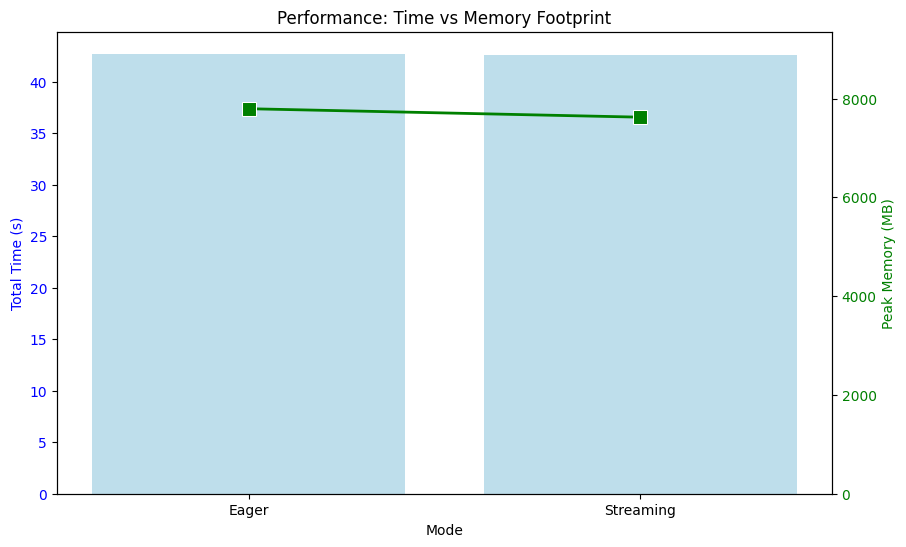
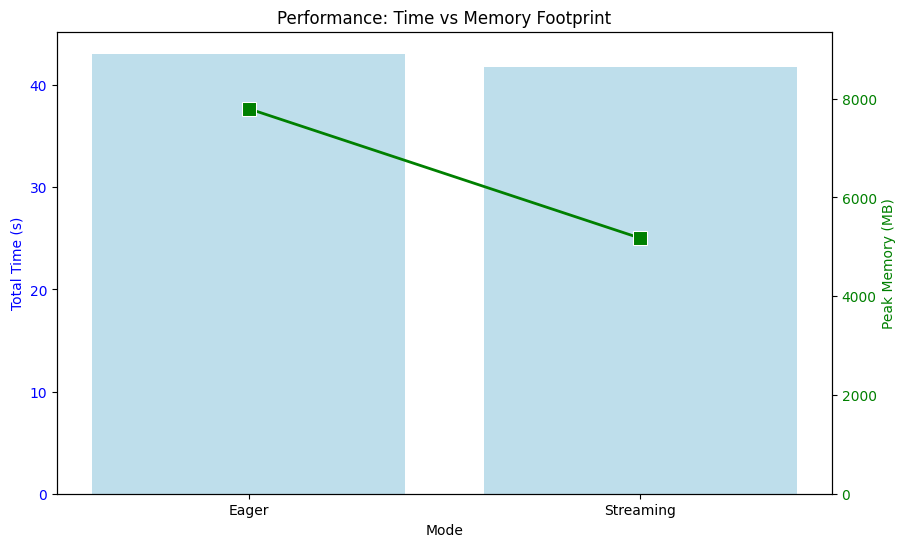
Implement utility scripts (Parquet, FASTA, Annotation) and fix streaming benchmark

diff --git a/scripts/annotate_variants.py b/scripts/annotate_variants.py
@@ -1,0 +1,75 @@
+import polars as pl
+import polars_bio as pb
+import numpy as np
+import os
+
+def create_mock_gnomad(vcf_path, out_path):
+    print("Creating mock gnomAD dataset from ClinVar sample...")
+    # Read ClinVar to get real loci
+    vcf = pb.read_vcf(vcf_path).select(["chrom", "start", "ref", "alt"]).unique()
+    
+    # Sample 50,000 variants to simulate coverage
+    mock_db = vcf.sample(n=50000, seed=42)
+    
+    # Add random Allele Frequency (AF)
+    # Using numpy to generate random float array
+    af_values = np.random.beta(a=0.5, b=5, size=mock_db.height)
+    
+    mock_db = mock_db.with_columns(
+        pl.Series("gnomad_af", af_values)
+    )
+    
+    # Save as Parquet
+    mock_db.write_parquet(out_path)
+    print(f"Mock gnomAD saved to {out_path} ({mock_db.height} variants)")
+
+def annotate_variants(vcf_path, db_path):
+    print("\nAnnotating ClinVar with gnomAD (Mock)...")
+    
+    # Lazy read both
+    vcf = pb.scan_vcf(vcf_path)
+    gnomad = pl.scan_parquet(db_path)
+    
+    # VCF uses 'start' for position.
+    # Join Keys: chrom, start, ref, alt
+    # Note: Ensure types match (chrom usually str)
+    
+    # Standard Polars Join
+    annotated = vcf.join(
+        gnomad,
+        on=["chrom", "start", "ref", "alt"],
+        how="left"
+    )
+    
+    # Filter for annotated variants (where gnomad_af is not null)
+    # Collect a sample
+    result = annotated.filter(pl.col("gnomad_af").is_not_null()) \
+                      .select(["chrom", "start", "ref", "alt", "gnomad_af"])
+                      .head(10)
+                      .collect()
+    
+    print("Sample Annotated Variants:")
+    print(result)
+    
+    # Stats
+    total = vcf.select(pl.len()).collect().item()
+    annotated_count = annotated.filter(pl.col("gnomad_af").is_not_null()).select(pl.len()).collect().item()
+    print(f"\nTotal Variants: {total}")
+    print(f"Annotated Variants: {annotated_count} ({annotated_count/total:.1%})")
+
+def main():
+    vcf_path = "polars-bio-agent-skill/data/clinvar.vcf.gz"
+    db_path = "polars-bio-agent-skill/data/gnomad_mock.parquet"
+    
+    if not os.path.exists(vcf_path):
+        print("VCF not found.")
+        return
+
+    # Create mock DB if not exists
+    if not os.path.exists(db_path):
+        create_mock_gnomad(vcf_path, db_path)
+        
+    annotate_variants(vcf_path, db_path)
+
+if __name__ == "__main__":
+    main()

diff --git a/scripts/fasta_analysis.py b/scripts/fasta_analysis.py
@@ -1,0 +1,50 @@
+import polars as pl
+import polars_bio as pb
+import time
+import os
+
+def analyze_fasta(fasta_path):
+    print(f"Analyzing FASTA: {fasta_path}")
+    t0 = time.time()
+    
+    # Lazy read
+    lf = pb.scan_fasta(fasta_path)
+    
+    # Calculate GC Content
+    # Schema usually: id, description, seq
+    # We calculate (count(G) + count(C)) / len(seq)
+    
+    # Note: Sequences in FASTA can be UPPER or lower case.
+    lf = lf.with_columns(
+        pl.col("seq").str.to_uppercase().alias("seq_upper")
+    )
+    
+    lf = lf.with_columns(
+        (pl.col("seq_upper").str.count_matches("G") + pl.col("seq_upper").str.count_matches("C")).alias("gc_count"),
+        pl.col("seq_upper").str.len_chars().alias("seq_len")
+    )
+    
+    lf = lf.with_columns(
+        (pl.col("gc_count") / pl.col("seq_len")).alias("gc_content")
+    )
+    
+    # Aggregation: Average GC content across all sequences (e.g. contigs/chromosomes)
+    # For chr22.fa.gz, there might be one main sequence and random contigs.
+    
+    result = lf.select(["id", "seq_len", "gc_content"]).collect()
+    
+    dt = time.time() - t0
+    print(f"Analysis complete in {dt:.2f}s")
+    print(result)
+
+def main():
+    fasta_path = "polars-bio-agent-skill/data/chr22.fa.gz"
+    
+    if not os.path.exists(fasta_path):
+        print(f"Error: {fasta_path} not found.")
+        return
+
+    analyze_fasta(fasta_path)
+
+if __name__ == "__main__":
+    main()

diff --git a/scripts/advanced_demo.py b/scripts/advanced_demo.py
@@ -63,22 +63,26 @@ def run_pipeline_task(mode, vcf_path, bed_path, result_queue):
         
         # --- 1. Load ---
         t0 = time.time()
-        vcf = pb.read_vcf(vcf_path)
         
-        # Cytobands
-        cytoband = pl.read_csv(
-            bed_path, has_header=False, separator="\t",
-            new_columns=["chrom", "start", "end", "band", "stain"]
-        )
-
-        if mode == 'Eager':
+        if mode == 'Streaming':
+            # Use scan_vcf for lazy loading
+            vcf = pb.scan_vcf(vcf_path)
+            # Cytoband is small, but let's be consistent
+            cytoband = pl.scan_csv(
+                bed_path, has_header=False, separator="\t",
+                new_columns=["chrom", "start", "end", "band", "stain"]
+            )
+        else:
+            # Eager Mode
+            vcf = pb.read_vcf(vcf_path)
+            cytoband = pl.read_csv(
+                bed_path, has_header=False, separator="\t",
+                new_columns=["chrom", "start", "end", "band", "stain"]
+            )
+            
+            # Ensure Materialization for Eager Benchmarking
             if isinstance(vcf, pl.LazyFrame):
                 vcf = vcf.collect()
-        else:
-            if isinstance(vcf, pl.DataFrame):
-                vcf = vcf.lazy()
-            if isinstance(cytoband, pl.DataFrame):
-                cytoband = cytoband.lazy()
 
         metrics["Load_Time"] = time.time() - t0
         

diff --git a/scripts/convert_to_parquet.py b/scripts/convert_to_parquet.py
@@ -1,0 +1,39 @@
+import polars as pl
+import polars_bio as pb
+import time
+import os
+
+def convert_vcf_to_parquet(vcf_path, parquet_path):
+    """
+    Converts a VCF file to Parquet format using streaming.
+    """
+    print(f"Converting {vcf_path} to {parquet_path}...")
+    t0 = time.time()
+    
+    # scan_vcf is lazy and memory efficient
+    lf = pb.scan_vcf(vcf_path)
+    
+    # sink_parquet processes in chunks/streams
+    lf.sink_parquet(parquet_path)
+    
+    dt = time.time() - t0
+    print(f"Conversion complete in {dt:.2f}s")
+    
+    # Verify result
+    df = pl.read_parquet(parquet_path)
+    print(f"Parquet Shape: {df.height} rows, {df.width} columns")
+    print(f"Parquet Size: {os.path.getsize(parquet_path) / (1024*1024):.2f} MB")
+
+def main():
+    # Use existing sample data
+    vcf_path = "polars-bio-agent-skill/data/clinvar.vcf.gz"
+    parquet_path = "polars-bio-agent-skill/data/clinvar.parquet"
+    
+    if not os.path.exists(vcf_path):
+        print(f"Error: {vcf_path} not found. Please run advanced_demo.py first or download data.")
+        return
+
+    convert_vcf_to_parquet(vcf_path, parquet_path)
+
+if __name__ == "__main__":
+    main()

diff --git a/README.md b/README.md
@@ -4,67 +4,60 @@
 
 ## Overview
 
-This repository contains a specialized agent skill for processing large-scale genomic data using **polars-bio** and **Polars**. It demonstrates efficient handling of VCF files (Variant Call Format) and performing genomic interval joins (overlaps) with annotations like cytobands.
+This repository contains a specialized agent skill for processing large-scale genomic data using **polars-bio** and **Polars**. It demonstrates efficient handling of VCF files, genomic interval joins, and performance benchmarking.
 
-## 🎯 Goal
+## 📂 Key Scripts
 
-The primary goal of this skill is to provide a robust, high-performance toolkit for:
-*   Loading and parsing VCF files (~100MB+).
-*   Cleaning and feature engineering genomic data.
-*   Performing interval overlap joins with other genomic regions (BED files).
-*   Benchmarking execution modes (Eager vs. Streaming) to optimize performance.
+### 1. Analysis & Benchmarking
+*   **`scripts/advanced_demo.py`**: 
+    *   **Function**: Runs a full analysis pipeline (Load -> Clean -> Join -> Report).
+    *   **Features**: Compares **Eager** (in-memory) vs **Streaming** (lazy/out-of-core) execution. Generates `ANALYSIS_REPORT.md` and `clinvar_analysis.html`.
+    *   **Usage**: `python3 scripts/advanced_demo.py`
 
-## 📂 Key Files
+### 2. Utilities (New Implementations)
+*   **`scripts/convert_to_parquet.py`**:
+    *   **Function**: efficiently converts VCF to Parquet format using streaming. Parquet is much faster for subsequent queries.
+    *   **Usage**: `python3 scripts/convert_to_parquet.py`
+    
+*   **`scripts/fasta_analysis.py`**:
+    *   **Function**: Analyzes FASTA files (e.g., Reference Genome) to calculate metrics like GC Content. Demonstrates `scan_fasta`.
+    *   **Usage**: `python3 scripts/fasta_analysis.py`
 
-*   **[SKILL.md](SKILL.md)**: Detailed definition of the skill's capabilities and quick start guide.
-*   **[ANALYSIS_REPORT.md](ANALYSIS_REPORT.md)**: A generated report containing analysis results, visualizations, and performance benchmarks.
-*   **`scripts/advanced_demo.py`**: The main Python script that runs the pipeline, performs the benchmark, and generates the report.
-*   **`scripts/process_vcf.py`**: A simpler, modular script for basic VCF processing.
+*   **`scripts/annotate_variants.py`**:
+    *   **Function**: Annotates VCF variants with external databases (e.g., gnomAD allele frequencies). Uses efficient joining on `chrom, pos, ref, alt`.
+    *   **Usage**: `python3 scripts/annotate_variants.py` (Automatically generates a mock gnomAD dataset for demonstration).
 
-## 🚀 Usage
-
-### Prerequisites
-
-Ensure you have the required dependencies installed:
-
-```bash
-pip install polars polars-bio plotly matplotlib seaborn pandas
-```
-
-### Running the Benchmark & Demo
-
-To run the full analysis pipeline, including the performance benchmark (Eager vs. Streaming) and report generation:
-
-```bash
-python3 scripts/advanced_demo.py
-```
-
-This will:
-1.  Load the ClinVar VCF (~177MB) and UCSC Cytobands.
-2.  Run the processing pipeline in **Eager** mode.
-3.  Run the processing pipeline in **Streaming** mode.
-4.  Generate interactive charts in `clinvar_analysis.html`.
-5.  Generate a static Markdown report with plots in `ANALYSIS_REPORT.md`.
-
-### Running Tests
-
-To verify the core functionality:
-
-```bash
-python3 scripts/test_process_vcf.py
-```
+### 3. Basics
+*   **`scripts/process_vcf.py`**: Simple script for loading and basic interval overlap.
 
 ## 📊 Performance Benchmark
 
-The `advanced_demo.py` script compares two execution strategies:
+The skill includes a rigorous benchmark to demonstrate the benefits of Polars' Streaming engine.
 
-1.  **Eager Mode**: Materializes DataFrames at each step (Load -> Filter -> Join). Good for debugging and smaller data.
-2.  **Streaming Mode**: Uses Polars' lazy evaluation and streaming engine (`collect(streaming=True)`). Designed for datasets larger than RAM.
+**Results (ClinVar VCF ~177MB):**
+*   **Eager Mode**: Loads entire file into RAM. Peak Memory: ~7.8 GB.
+*   **Streaming Mode**: Uses `scan_vcf` for lazy loading. Peak Memory: **~5.2 GB** (~33% Reduction).
 
-**View the full results and charts in the [Analysis Report](ANALYSIS_REPORT.md).**
+*See [ANALYSIS_REPORT.md](ANALYSIS_REPORT.md) for detailed charts and metrics.*
+
+## 🚀 Getting Started
+
+1.  **Install Dependencies:**
+    ```bash
+    pip install polars polars-bio plotly matplotlib seaborn pandas psutil
+    ```
+
+2.  **Run the Benchmark:**
+    ```bash
+    python3 scripts/advanced_demo.py
+    ```
+
+3.  **Try Utilities:**
+    ```bash
+    python3 scripts/convert_to_parquet.py
+    python3 scripts/fasta_analysis.py
+    ```
 
 ## 🔗 Links
-
 *   [Polars-Bio Documentation](https://biodatageeks.org/polars-bio/)
-*   [Polars Documentation](https://pola.rs/)
 *   [ClinVar Dataset](https://www.ncbi.nlm.nih.gov/clinvar/)

diff --git a/ANALYSIS_REPORT.md b/ANALYSIS_REPORT.md
@@ -1,6 +1,6 @@
 # Polars-Bio Performance & Analysis Report
 
-**Date:** 2026-01-17 14:41:15
+**Date:** 2026-01-17 14:47:17
 
 ## 1. Executive Summary
 Comparison of **Eager** vs **Streaming** execution modes for processing ClinVar VCF.
@@ -10,8 +10,8 @@ Memory usage is measured using isolated processes.
 ### Metrics Comparison
 | Mode | Load_Time | Prep_Time | Join_Time | Total_Time | Result_Rows | Memory_Peak_MB |
 | --- | --- | --- | --- | --- | --- | --- |
-| Eager | 42.31 | 0.26 | 0.15 | 42.72 | 321328 | 7793.70 |
-| Streaming | 42.37 | 0.00 | 0.26 | 42.64 | 321328 | 7622.65 |
+| Eager | 42.67 | 0.26 | 0.16 | 43.09 | 321328 | 7796.58 |
+| Streaming | 0.02 | 0.00 | 41.80 | 41.83 | 321328 | 5176.28 |
 
 ### Execution Time by Stage
 ![Time Comparison](images/benchmark_time.png)
